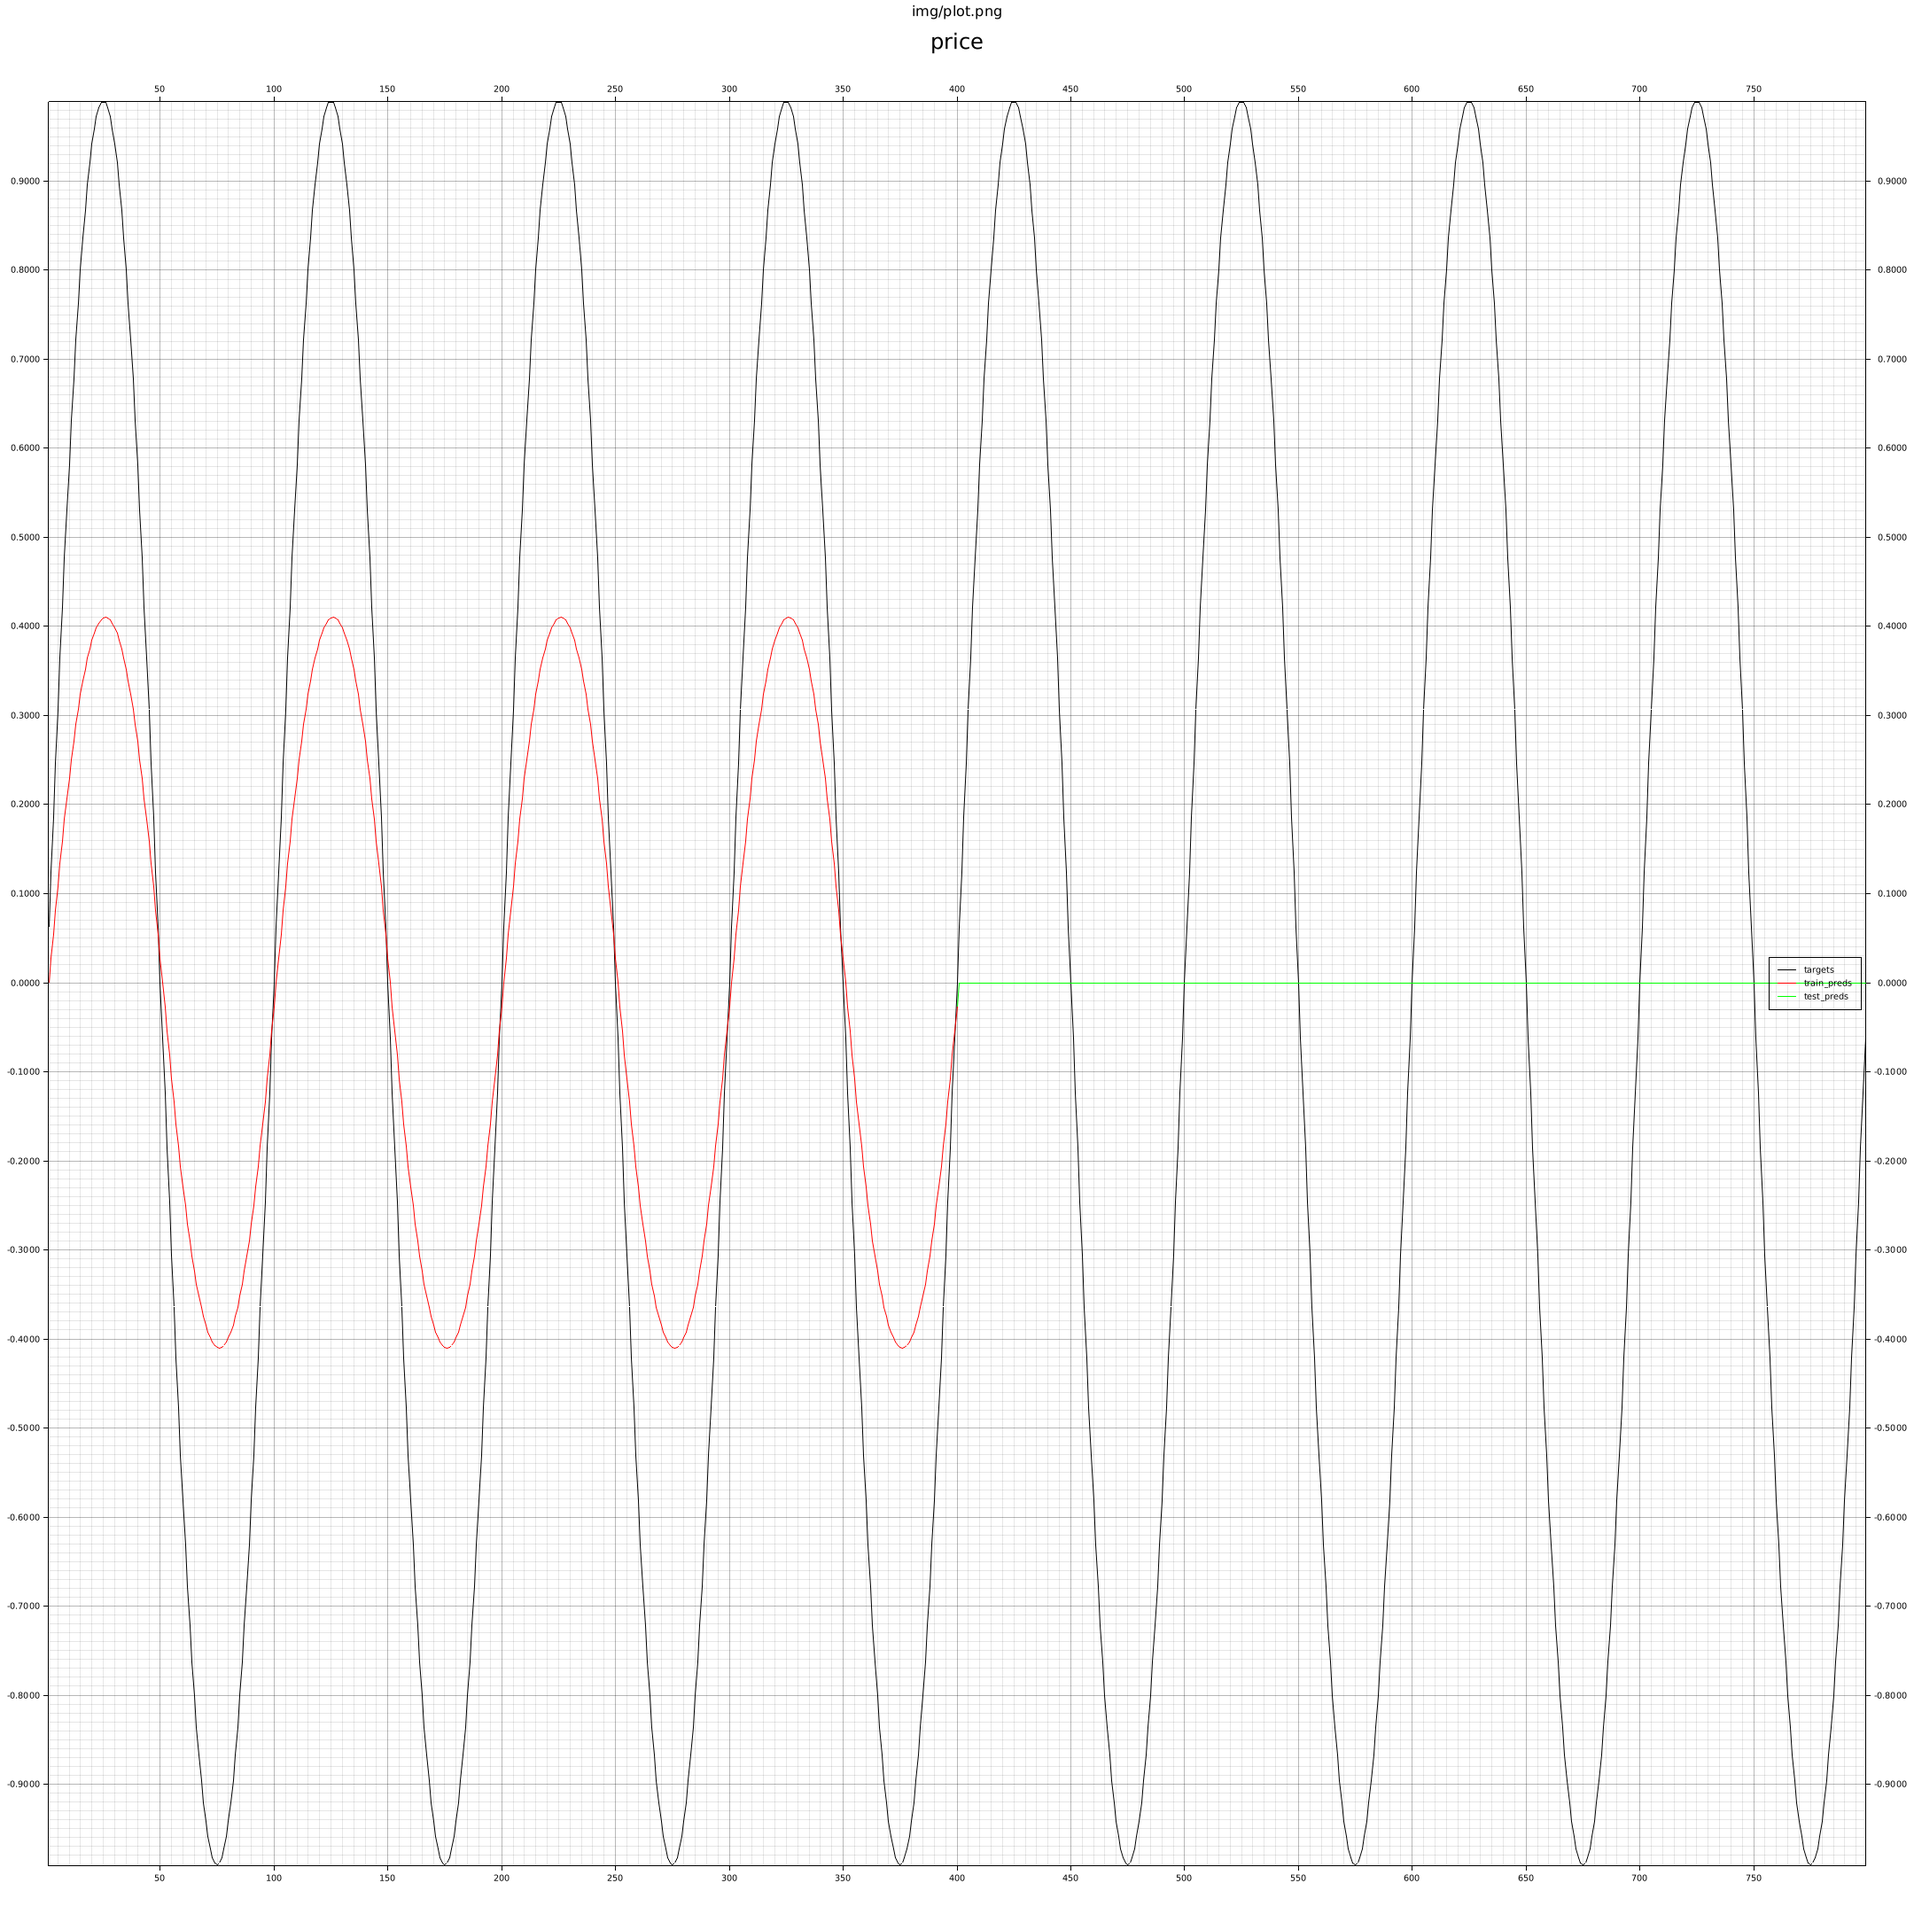
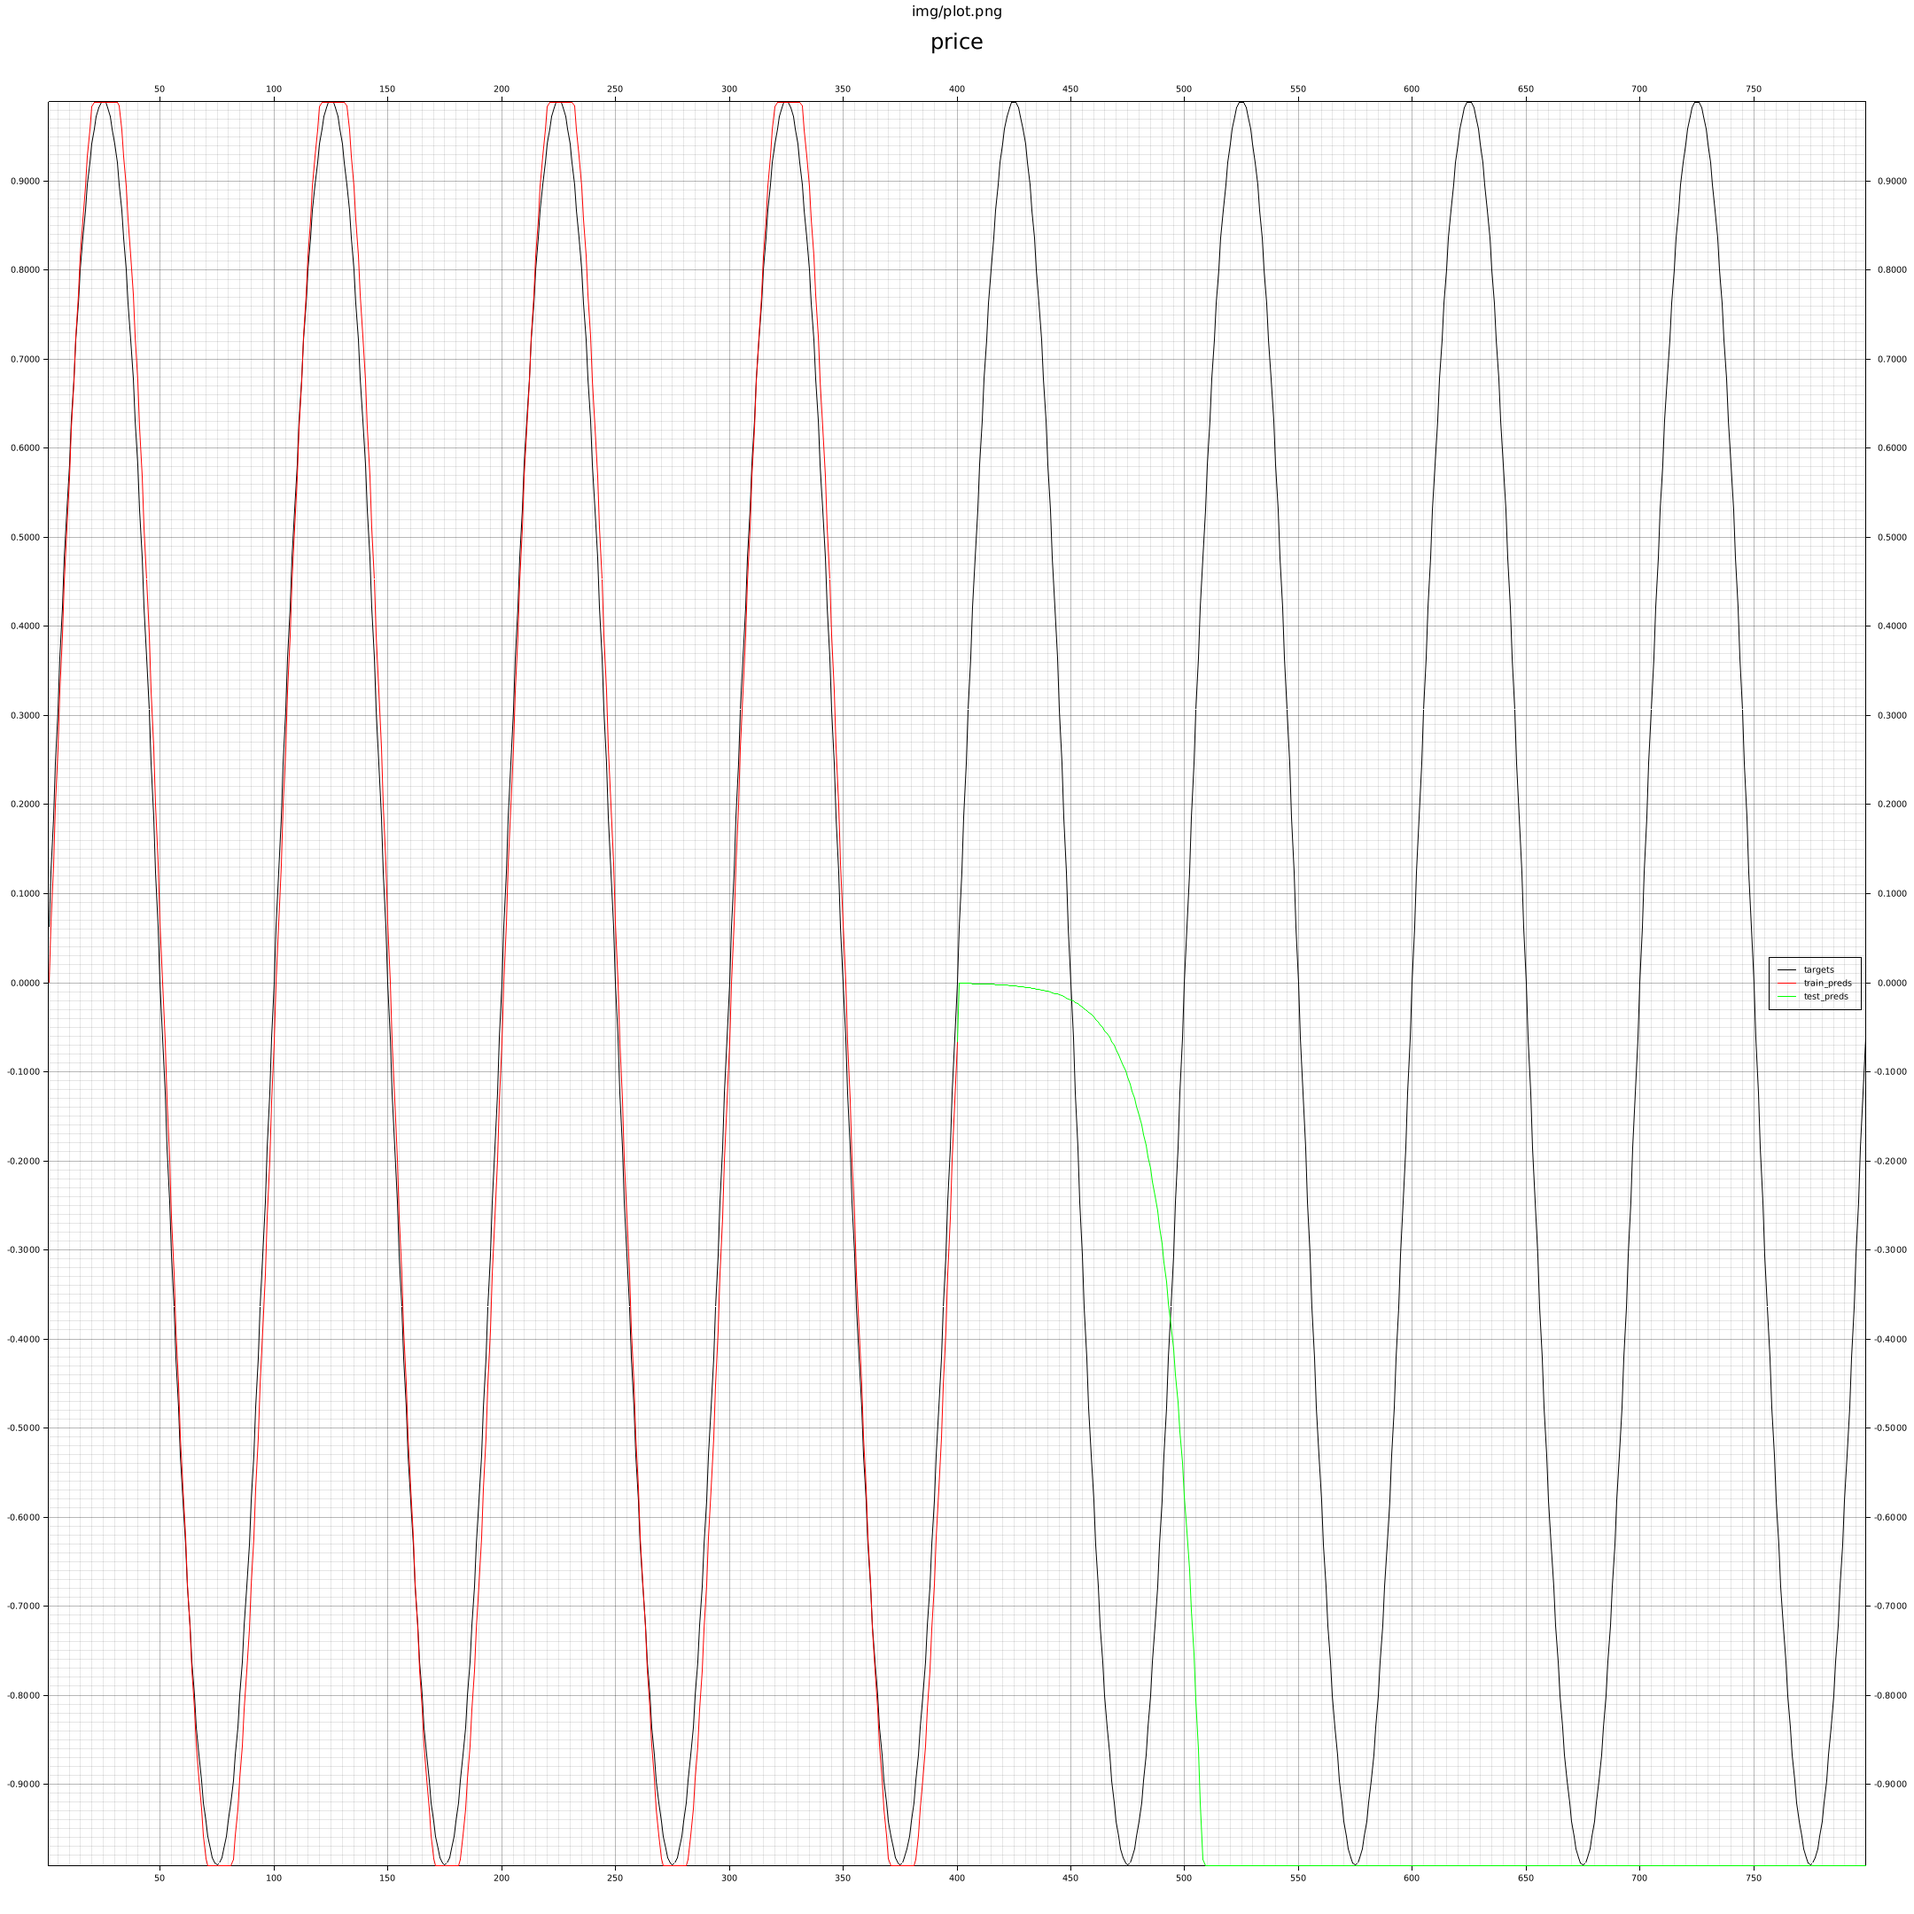
optional output_tanh

diff --git a/src/esn.rs b/src/esn.rs
@@ -44,6 +44,7 @@ pub(crate) struct Params {
     pub(crate) leaking_rate: f64,
     pub(crate) regularization_coeff: f64,
     pub(crate) washout_pct: f64,
+    pub(crate) output_tanh: bool,
     pub(crate) seed: Option<u64>,
 }
 
@@ -223,7 +224,9 @@ impl ESN {
     #[must_use]
     pub(crate) fn readout(&self) -> PredictionMatrix {
         let mut pred = &self.readout_matrix * &self.state;
-        pred.iter_mut().for_each(|v| *v = v.tanh());
+        if self.params.output_tanh {
+            pred.iter_mut().for_each(|v| *v = v.tanh());
+        }
 
         pred
     }

diff --git a/src/main.rs b/src/main.rs
@@ -44,11 +44,12 @@ fn main() {
         input_sparsity: 0.2,
         input_scaling: 0.1,
         input_bias: 0.0,
-        feedback_gain: 0.0,
+        feedback_gain: 0.1,
         spectral_radius: 0.8,
-        leaking_rate: 0.1,
+        leaking_rate: 0.05,
         regularization_coeff: 0.1,
         washout_pct: 0.25,
+        output_tanh: false,
         seed: None,
     };
     let mut rc = ESN::new(params);
